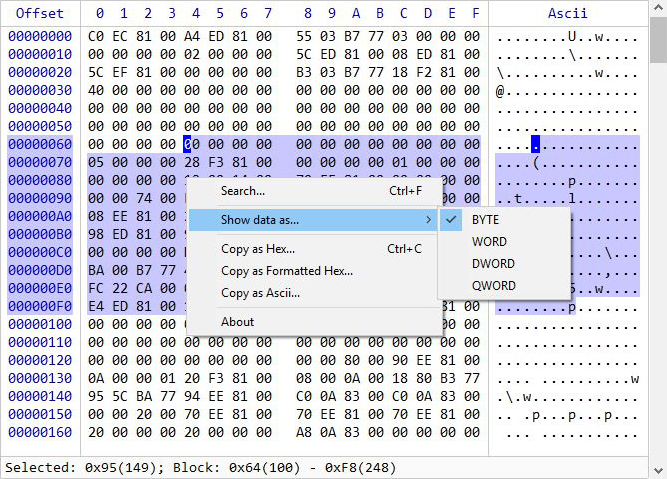
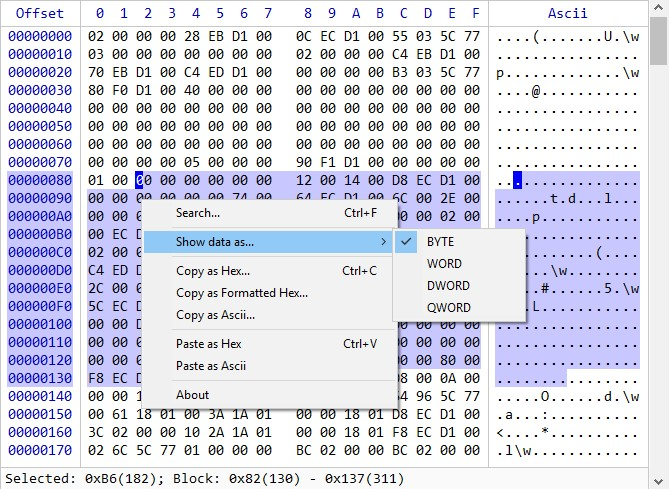
[Changes] Code consistency.

diff --git a/HexCtrl/HexCtrl.cpp b/HexCtrl/HexCtrl.cpp
@@ -25,14 +25,14 @@ namespace HEXCTRL {
 	namespace {
 		enum HEXCTRL_SHOWAS { ASBYTE = 1, ASWORD = 2, ASDWORD = 4, ASQWORD = 8 };
 		enum HEXCTRL_CLIPBOARD {
-			COPY_HEX, COPY_HEXFORMATTED, COPY_ASCII,
-			PASTE_HEX, PASTE_ASCII
+			COPY_ASHEX, COPY_ASHEXFORMATTED, COPY_ASASCII,
+			PASTE_ASHEX, PASTE_ASASCII
 		};
 		enum HEXCTRL_MENU {
 			IDM_MAIN_SEARCH,
 			IDM_SUB_SHOW_ASBYTE, IDM_SUB_SHOW_ASWORD, IDM_SUB_SHOW_ASDWORD, IDM_SUB_SHOW_ASQWORD,
 			IDM_MAIN_COPY_ASHEX, IDM_MAIN_COPY_ASHEXFORMATTED, IDM_MAIN_COPY_ASASCII,
-			IDM_MAIN_PASTE_HEX, IDM_MAIN_PASTE_ASCII,
+			IDM_MAIN_PASTE_ASHEX, IDM_MAIN_PASTE_ASASCII,
 			IDM_MAIN_ABOUT,
 		};
 		constexpr auto HEXCTRL_WNDCLASS_WSTR = L"HexCtrl";
@@ -94,8 +94,8 @@ CHexCtrl::CHexCtrl()
 	m_menuMain.AppendMenuW(MF_STRING, IDM_MAIN_COPY_ASHEXFORMATTED, L"Copy as Formatted Hex...");
 	m_menuMain.AppendMenuW(MF_STRING, IDM_MAIN_COPY_ASASCII, L"Copy as Ascii...");
 	m_menuMain.AppendMenuW(MF_SEPARATOR);
-	m_menuMain.AppendMenuW(MF_STRING, IDM_MAIN_PASTE_HEX, L"Paste Hex	Ctrl+V");
-	m_menuMain.AppendMenuW(MF_STRING, IDM_MAIN_PASTE_ASCII, L"Paste Ascii");
+	m_menuMain.AppendMenuW(MF_STRING, IDM_MAIN_PASTE_ASHEX, L"Paste as Hex	Ctrl+V");
+	m_menuMain.AppendMenuW(MF_STRING, IDM_MAIN_PASTE_ASASCII, L"Paste as Ascii");
 	m_menuMain.AppendMenuW(MF_SEPARATOR);
 	m_menuMain.AppendMenuW(MF_STRING, IDM_MAIN_ABOUT, L"About");
 
@@ -510,19 +510,19 @@ BOOL CHexCtrl::OnCommand(WPARAM wParam, LPARAM lParam)
 			m_pDlgSearch->ShowWindow(SW_SHOW);
 		break;
 	case IDM_MAIN_COPY_ASHEX:
-		ClipboardCopy(HEXCTRL_CLIPBOARD::COPY_HEX);
+		ClipboardCopy(HEXCTRL_CLIPBOARD::COPY_ASHEX);
 		break;
 	case IDM_MAIN_COPY_ASHEXFORMATTED:
-		ClipboardCopy(HEXCTRL_CLIPBOARD::COPY_HEXFORMATTED);
+		ClipboardCopy(HEXCTRL_CLIPBOARD::COPY_ASHEXFORMATTED);
 		break;
 	case IDM_MAIN_COPY_ASASCII:
-		ClipboardCopy(HEXCTRL_CLIPBOARD::COPY_ASCII);
+		ClipboardCopy(HEXCTRL_CLIPBOARD::COPY_ASASCII);
 		break;
-	case IDM_MAIN_PASTE_HEX:
-		ClipboardPaste(HEXCTRL_CLIPBOARD::PASTE_HEX);
+	case IDM_MAIN_PASTE_ASHEX:
+		ClipboardPaste(HEXCTRL_CLIPBOARD::PASTE_ASHEX);
 		break;
-	case IDM_MAIN_PASTE_ASCII:
-		ClipboardPaste(HEXCTRL_CLIPBOARD::PASTE_ASCII);
+	case IDM_MAIN_PASTE_ASASCII:
+		ClipboardPaste(HEXCTRL_CLIPBOARD::PASTE_ASASCII);
 		break;
 	case IDM_MAIN_ABOUT:
 	{
@@ -560,8 +560,8 @@ void CHexCtrl::OnContextMenu(CWnd* pWnd, CPoint point)
 	m_menuMain.EnableMenuItem(IDM_MAIN_COPY_ASHEX, uMenuStatus | MF_BYCOMMAND);
 	m_menuMain.EnableMenuItem(IDM_MAIN_COPY_ASHEXFORMATTED, uMenuStatus | MF_BYCOMMAND);
 	m_menuMain.EnableMenuItem(IDM_MAIN_COPY_ASASCII, uMenuStatus | MF_BYCOMMAND);
-	m_menuMain.EnableMenuItem(IDM_MAIN_PASTE_HEX, (m_fMutable && IsClipboardFormatAvailable(CF_TEXT)) ? uMenuStatus : MF_GRAYED | MF_BYCOMMAND);
-	m_menuMain.EnableMenuItem(IDM_MAIN_PASTE_ASCII, (m_fMutable && IsClipboardFormatAvailable(CF_TEXT)) ? uMenuStatus : MF_GRAYED | MF_BYCOMMAND);
+	m_menuMain.EnableMenuItem(IDM_MAIN_PASTE_ASHEX, (m_fMutable && IsClipboardFormatAvailable(CF_TEXT)) ? uMenuStatus : MF_GRAYED | MF_BYCOMMAND);
+	m_menuMain.EnableMenuItem(IDM_MAIN_PASTE_ASASCII, (m_fMutable && IsClipboardFormatAvailable(CF_TEXT)) ? uMenuStatus : MF_GRAYED | MF_BYCOMMAND);
 
 	m_menuMain.TrackPopupMenu(TPM_LEFTALIGN | TPM_TOPALIGN | TPM_LEFTBUTTON, point.x, point.y, this);
 }
@@ -577,10 +577,10 @@ void CHexCtrl::OnKeyDown(UINT nChar, UINT nRepCnt, UINT nFlags)
 			m_pDlgSearch->ShowWindow(SW_SHOW);
 			break;
 		case 'C':
-			ClipboardCopy(HEXCTRL_CLIPBOARD::COPY_HEX);
+			ClipboardCopy(HEXCTRL_CLIPBOARD::COPY_ASHEX);
 			break;
 		case 'V':
-			ClipboardPaste(HEXCTRL_CLIPBOARD::PASTE_HEX);
+			ClipboardPaste(HEXCTRL_CLIPBOARD::PASTE_ASHEX);
 			break;
 		case 'A':
 			SelectAll();;
@@ -1262,7 +1262,7 @@ void CHexCtrl::ClipboardCopy(DWORD dwType)
 	std::string strToClipboard;
 	switch (dwType)
 	{
-	case COPY_HEX:
+	case COPY_ASHEX:
 	{
 		for (unsigned i = 0; i < m_ullSelectionSize; i++) {
 			strToClipboard += pszHexMap[((unsigned char)m_pData[m_ullSelectionStart + i] & 0xF0) >> 4];
@@ -1270,7 +1270,7 @@ void CHexCtrl::ClipboardCopy(DWORD dwType)
 		}
 		break;
 	}
-	case COPY_HEXFORMATTED:
+	case COPY_ASHEXFORMATTED:
 	{
 		//How many spaces are needed to be inserted at the beginnig.
 		DWORD dwModStart = m_ullSelectionStart % m_dwCapacity;
@@ -1305,7 +1305,7 @@ void CHexCtrl::ClipboardCopy(DWORD dwType)
 		}
 		break;
 	}
-	case COPY_ASCII:
+	case COPY_ASASCII:
 	{
 		for (unsigned i = 0; i < m_ullSelectionSize; i++)
 		{
@@ -1373,7 +1373,7 @@ void CHexCtrl::ClipboardPaste(DWORD dwType)
 
 		switch (dwType)
 		{
-		case HEXCTRL_CLIPBOARD::PASTE_HEX:
+		case HEXCTRL_CLIPBOARD::PASTE_ASHEX:
 		{
 			DWORD dwIterations = DWORD(ullSizeData / 2 + ullSizeData % 2);
 			char chToUL[3] { }; //Array for actual letters to convert from.
@@ -1399,7 +1399,7 @@ void CHexCtrl::ClipboardPaste(DWORD dwType)
 			}
 		}
 		break;
-		case HEXCTRL_CLIPBOARD::PASTE_ASCII:
+		case HEXCTRL_CLIPBOARD::PASTE_ASASCII:
 			for (size_t i = 0; i < ullSizeData; i++)
 				m_pData[m_ullSelectionStart + i] = pszData[i];
 			break;
